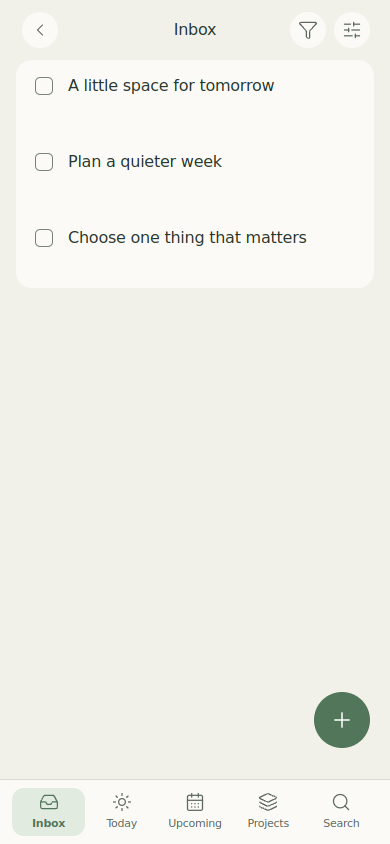
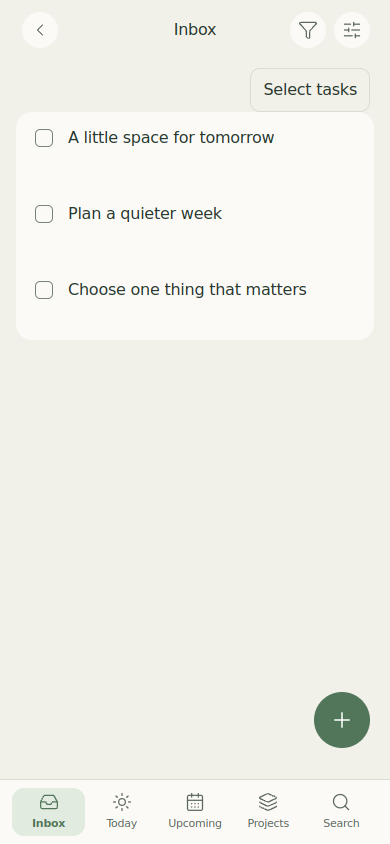
docs: record Still 1.1 verification and finished area, batch, transfer and sync screenshots

diff --git a/VERIFICATION.md b/VERIFICATION.md
@@ -13,3 +13,20 @@ Fifteen browser checks pass locally, including mobile search, in-session offline
 Native CI validation installs the NSIS installer and exercises task creation/persistence in the installed Windows app. Android CI checks the APK signature and package identity, installs it in an API 35 emulator and requires the task navigation UI to appear without an app crash. Results and native screenshots are attached to the exact Actions run. Notifications, paid cloud accounts, live self-hosted sync, attachment upload, AI endpoints and physical-device behavior remain outside the verified scope. Local Android sync succeeds; Gradle compilation stops at `services.gradle.org` with `java.net.SocketException: Network is unreachable`, and no Android SDK is installed. Local Windows packaging downloads Electron successfully, then stops because Wine is required for Windows executable resource editing on Linux. GitHub Actions is responsible for platform compilation. CI artifacts must be checked against the exact run/commit before distribution. Windows code signing and stable Android release signing are not configured.
 
 Known upstream build warnings: large main web chunk and a Zod circular dependency during Electron compilation. These are retained rather than stripping upstream capabilities to make the bundle look smaller. The old Still JSON/SQLite format has no safe converter; see DATA-MIGRATION.md.
+
+## Still 1.1 verification
+
+Release candidate: `d443cab9194f21eb7fbbcf2d819ade9086238644`.
+Local results: TypeScript and ESLint pass without warnings; 16 engine/CSV/encryption/provider tests pass; 23 browser checks pass without uncaught exceptions. Production Vite and Electron bundles compile. The additional checks cover mobile multi-selection, completion, move, scheduling, deletion confirmation, Todoist preview/backup/import/export, sentence-case area headings and the real provider sync service over controlled WebDAV responses. Dropbox pagination, remote errors, encryption failures and two-replica CRDT convergence are exercised by adapter tests.
+
+Native CI for this exact candidate: https://github.com/satorinoiadeus/still/actions/runs/39054737318
+The workflow gates publication on the installed Windows persistence/native HTTPS sync check, Android APK install/launch, and two Android instrumentation regression tests for WebDAV verbs/request policy. Check the run's final conclusion before distributing its binaries. Live WebDAV/Dropbox credentials, Dropbox OAuth/refresh, attachment provider transfer and physical-device behavior are outside the verified scope.
+
+Screenshots are actual running UI captures:
+
+- [Area desktop](screenshots/still-area-desktop.png) and [area mobile](screenshots/still-area-mobile.png)
+- [Mobile batch selection](screenshots/still-mobile-batch.png)
+- [Todoist transfer](screenshots/still-todoist-mobile.png)
+- [Sync configuration](screenshots/still-sync-mobile.png)
+
+See [release notes](RELEASE-1.1.md), particularly the required Android 1.0 backup/reinstall/restore procedure.
